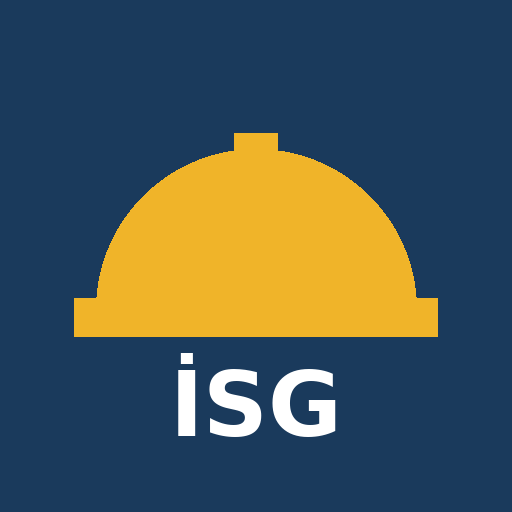
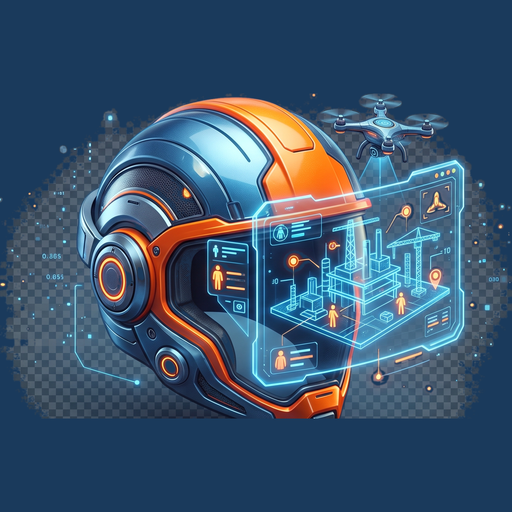
feat(pwa): İSG Saha ikonu güncellendi, build rozetine V1 Pilot etiketi eklendi
Yeni AI üretimi helmet ikonu (checkerboard temizlenip tema rengine
düzleştirildi) icon-192/512.png olarak uygulandı. #build-info rozeti
artık "V1 Pilot" etiketiyle başlıyor (isg-saha-v31/4R-PKG-3K korunuyor).

diff --git a/app.js b/app.js
@@ -4439,7 +4439,7 @@ window.addEventListener('load', () => {
   _turListesiYukle();
   _dofListesiYukle();
   const buildRozetEl = document.getElementById('build-info');
-  if (buildRozetEl) buildRozetEl.textContent = `PWA ${APP_CACHE} · ${APP_BUILD}`;
+  if (buildRozetEl) buildRozetEl.textContent = `V1 Pilot · PWA ${APP_CACHE} · ${APP_BUILD}`;
   // 4R-PKG-3J: "Geliştirici" <details>'ı önceki oturumda açık bırakıldıysa
   // geri getir (varsayılan KAPALI -- localStorage'da DEBUG_DOF="1" yoksa
   // kapalı kalır, kullanıcı hiç görmez).
